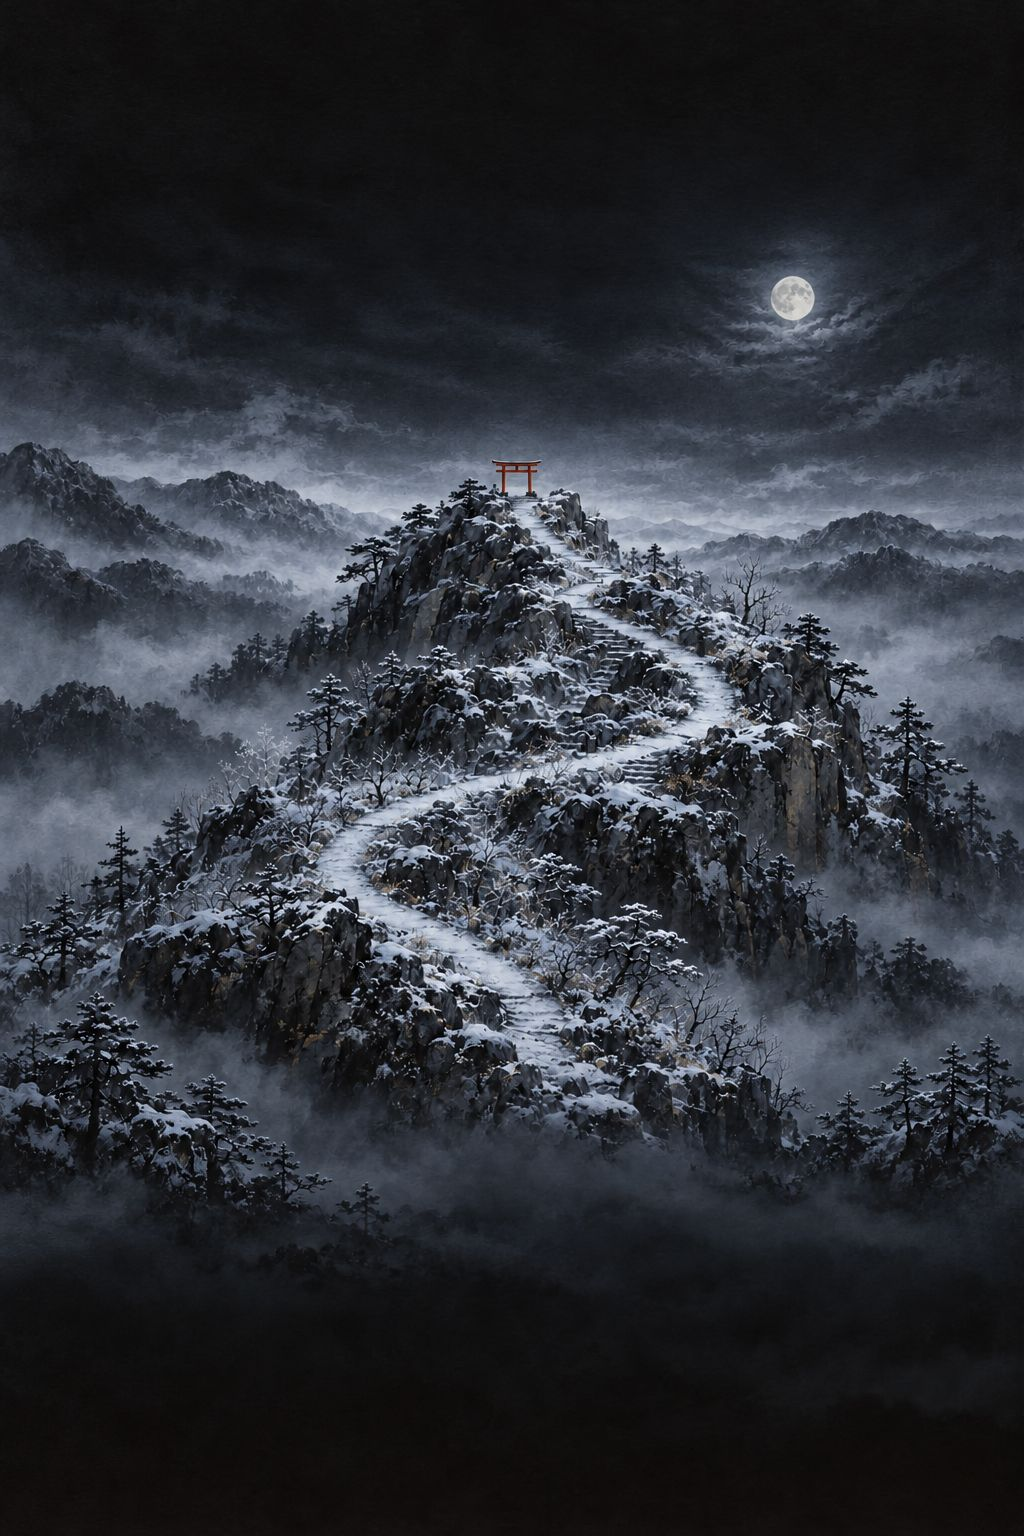
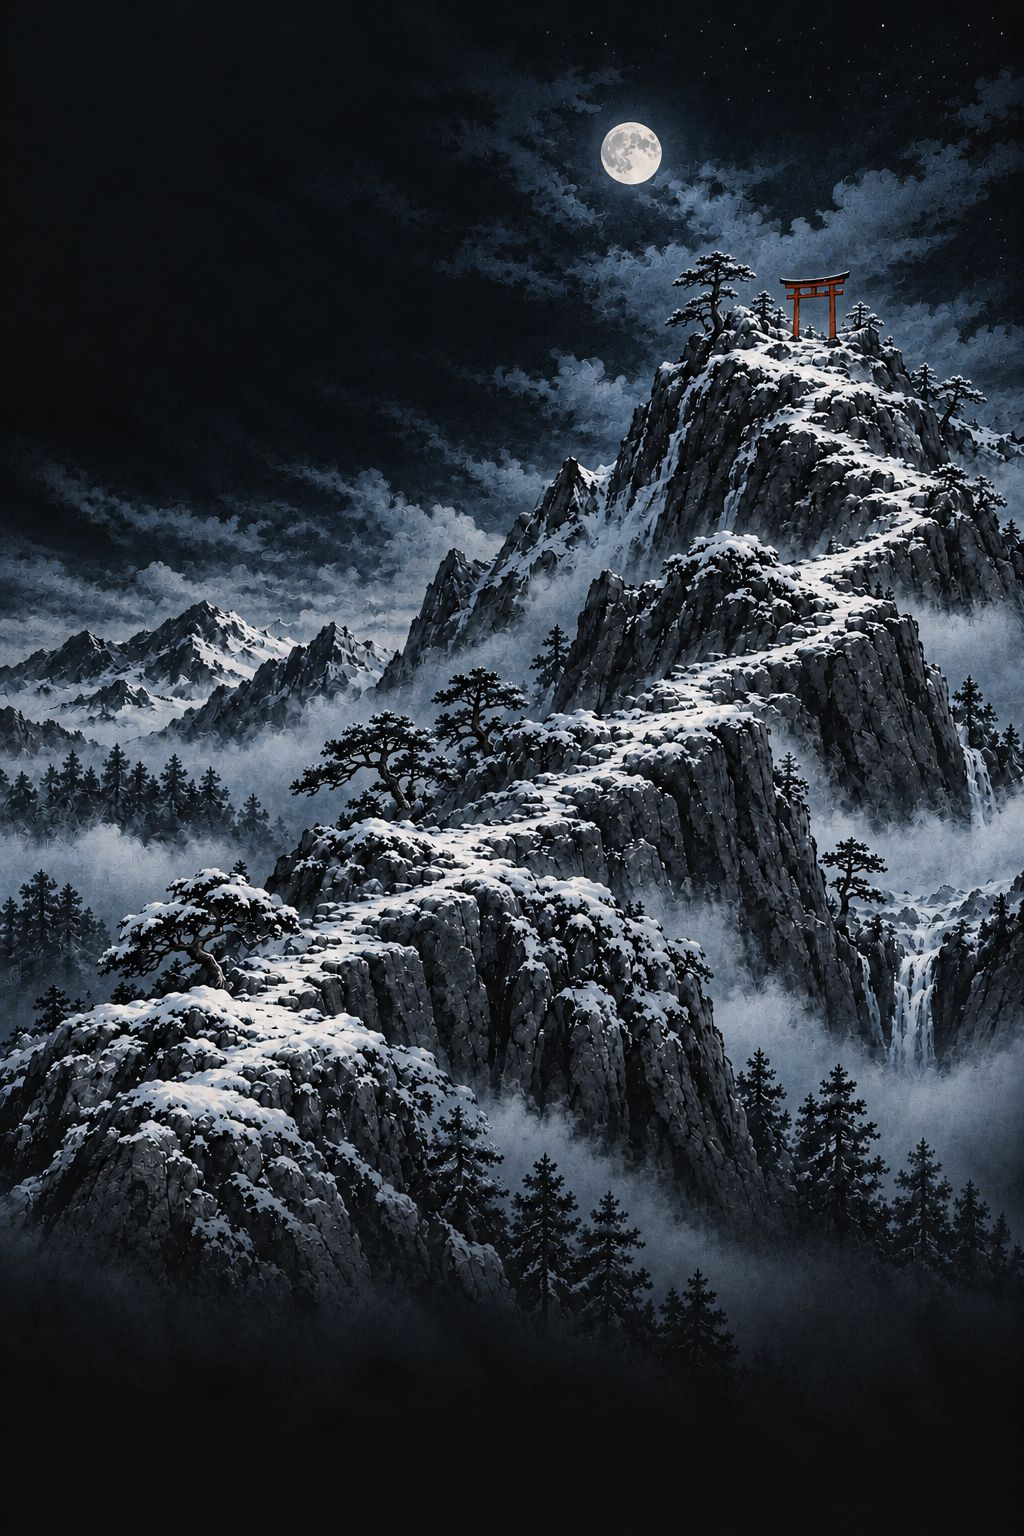
v0.20.0: New Jan-Jun mountain art with the torii at top right; lanterns follow the new paths
Claude-Session: https://claude.ai/code/session_01KcNjAAMXczDP8kvpzxopU7

diff --git a/index.html b/index.html
@@ -375,6 +375,8 @@
   @keyframes hereBob{ 0%,100%{transform:translateY(0);}50%{transform:translateY(-4px);} }
   /* 山の絵（絵の山道の上にマスを並べる） */
   .mart.v2 .mart-in{ top:calc(100cqh - 202.5cqw + 13cqw); }
+  /* 新しい山の絵：道の麓が下の操作パネルの上、鳥居が見出しの下に収まる大きさ */
+  .mart.v2 .mart-in.p2{ --H:max(150cqw, min(171cqw, calc((100cqh - 470px) * 2.06))); height:var(--H);width:calc(var(--H) / 1.5);left:calc(50cqw - var(--H) / 3);top:calc(100cqh - 205px - .707 * var(--H)); }
   .mart.v2::before{ content:'';position:absolute;inset:0 0 auto 0;height:58%;z-index:2;pointer-events:none;background:linear-gradient(180deg,rgba(12,10,9,.92) 0%,rgba(12,10,9,.7) 45%,rgba(12,10,9,0) 100%); }
   .mart.v2::after{ content:'';position:absolute;inset:auto 0 0 0;height:44%;z-index:2;pointer-events:none;background:linear-gradient(0deg,rgba(12,10,9,.97) 0%,rgba(12,10,9,.85) 55%,rgba(12,10,9,0) 100%); }
   .hx{ position:absolute;left:20px;right:20px;top:16px;z-index:4; }
@@ -1076,7 +1078,7 @@ function microGoalCard(){
 }
 
 let currentAvatar='🧘';
-const APP_VERSION='v0.19.11';
+const APP_VERSION='v0.20.0';
 // 六種の修行のカテゴリ色（すごろくの円グラフ配色に使用）
 const CAT_COLORS={ push:'#D55E00', pull:'#E69F00', squat:'#56B4E9', core:'#F0E442', bridge:'#0072B2', hand:'#009E73' };
 let SUM=EX.reduce((a,e)=>a+e.cur,0);
@@ -1303,6 +1305,10 @@ let trainedToday=false; // 今日修行したか（recompute()で計算）
 const MTN_PATH=[[54.7,70.6],[53.2,67.7],[45.9,62.5],[37.1,57.3],[43,52.1],[54.7,50.5],[62,49.5],[68.4,47.9],[70.8,46.2],[69.3,44.6],[66.4,43.3],[61,42.3],[57.6,40.7],[56.6,39.1],[55.2,37.1],[52.2,34.8],[51.3,33.8]];
 const MTN_ART={};
 for(let m=1;m<=12;m++) MTN_ART[m]={img:`images/mtn-${String(m).padStart(2,'0')}.jpg`,path:MTN_PATH};
+// 新しい山の絵（鳥居が右上）。1〜5月は同じ道、6月は道の形が少し違う
+const MTN_PATH2=[[20,70],[29,63.5],[39,59],[49,54.4],[58.6,49.9],[68,46],[76,42],[84,37.5],[88,33],[86,27.7],[81,23.2],[79.5,21.5]];
+const MTN_PATH2_JUN=[[18.5,70.7],[25.4,64.8],[37,59],[47,55],[54.7,51.8],[62.5,47.3],[72,44.7],[80,40.7],[86,36.2],[89,31.6],[84,27.7],[80,24.5],[79.5,22]];
+for(let m=1;m<=6;m++) Object.assign(MTN_ART[m],{path:m===6?MTN_PATH2_JUN:MTN_PATH2,v:2});
 // 山道の折れ線上で、麓からの道のり t（0〜1）にある点を返す（%座標）
 function pathPoint(pts,t){
   // 画像は縦長(2:3)なので、長さは実寸比で測る
@@ -1420,7 +1426,7 @@ function viewHome(){
     const t=homeLine(), canRest=!trainedToday && CAL_DATA[todayStr()]!=='rest';
     return `
     <div class="mart v2">
-      <div class="mart-in" style="background-image:url('${art.img}')">
+      <div class="mart-in${art.v===2?' p2':''}" style="background-image:url('${art.img}')">
         ${reached?`<div class="mlabel peak reached" style="left:${tx}%;top:${ty-7}%" onclick="onPeakReached()">${MTN.allLit?'Summit reached! Share':'Summit reached'}</div>`:''}
         ${nodes}
       </div>
